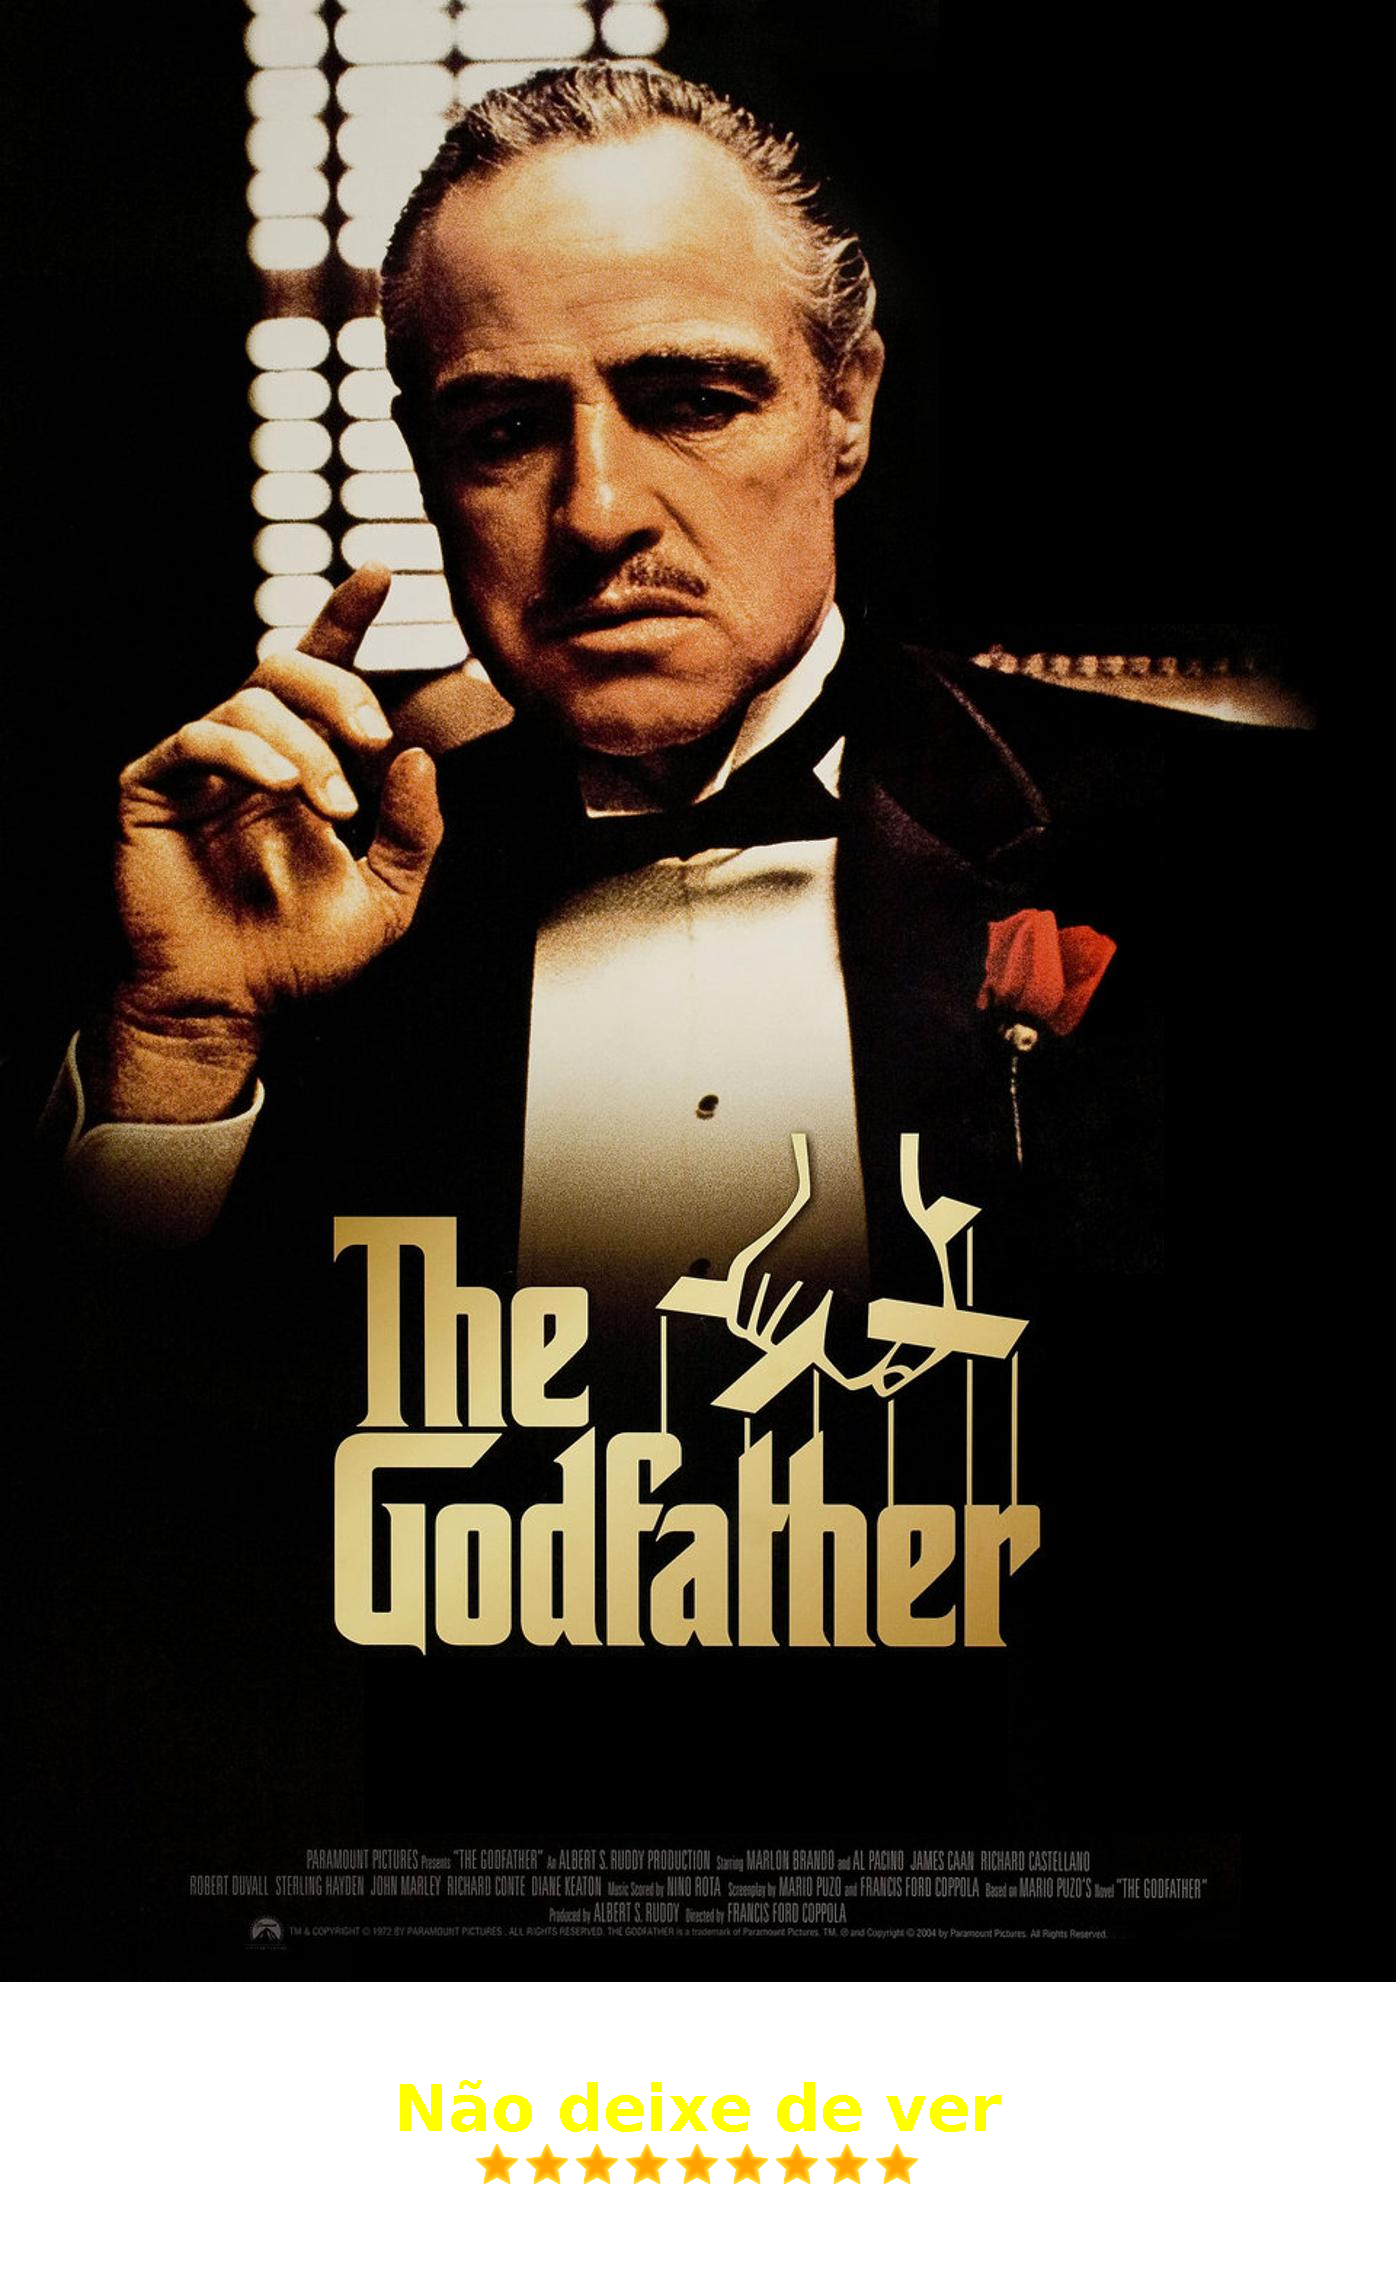
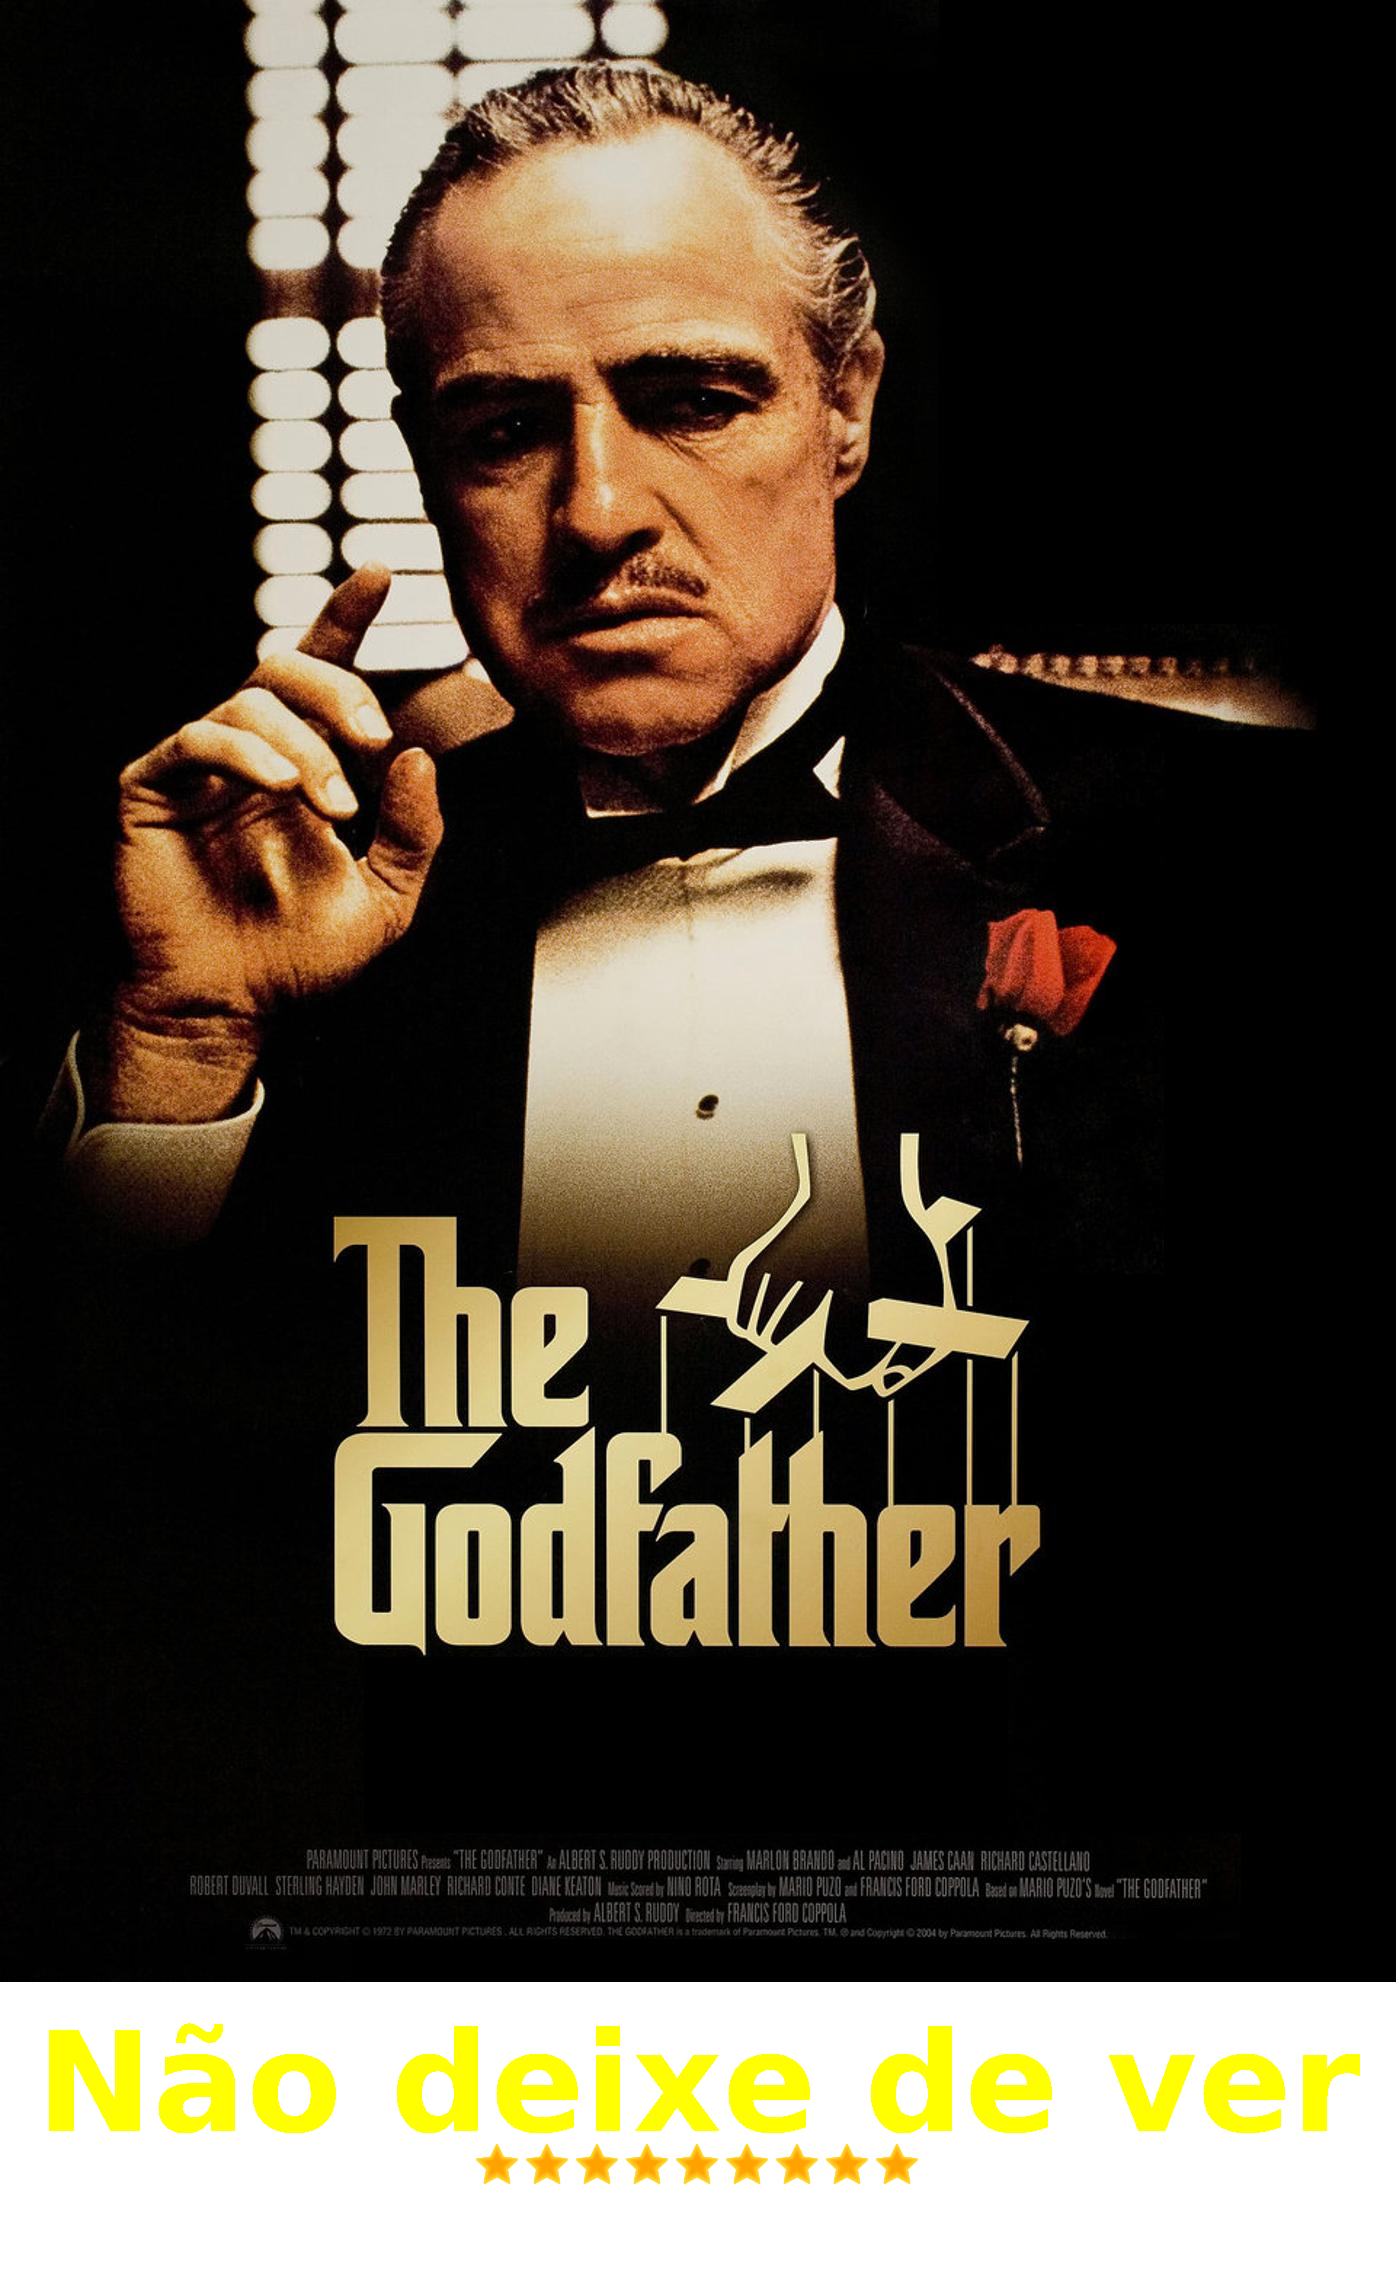
Making text proportional to the sticker

Changed region(s): [[0.2772, 0.8723, 0.7701, 0.9346], [0.0308, 0.8723, 0.2464, 0.9346], [0.8009, 0.9035, 0.9857, 0.9346]]

diff --git a/src/factory/StickerGenerator.java b/src/factory/StickerGenerator.java
@@ -23,7 +23,6 @@ public class StickerGenerator {
 
 	public static void producer (URL imageUrl, String title, Double value) {
 
-		var font = new Font(Font.SANS_SERIF, Font.BOLD, 64);
 		String evaluation;
 		
 		try {
@@ -33,6 +32,7 @@ public class StickerGenerator {
 			BufferedImage sticker = new BufferedImage(poster.getWidth(), poster.getHeight() + fifteenPerCentOfPosterHeight, BufferedImage.TRANSLUCENT);
 			Graphics2D graphics = sticker.createGraphics();
 			
+			var font = new Font(Font.SANS_SERIF, Font.BOLD, (poster.getWidth() * 10/100));
 			graphics.drawImage(poster, 0, 0, null);		
 			graphics.setFont(font);
 			graphics.setColor(Color.YELLOW);
@@ -49,9 +49,10 @@ public class StickerGenerator {
 			
 			int centerOfSticker = sticker.getWidth() / 2;
 			int centerOfText = (graphics.getFontMetrics().stringWidth(evaluation) / 2);
+			var stars = rating.getStars();
 			
 			graphics.drawString(evaluation, centerOfSticker - centerOfText, sticker.getHeight() - (fifteenPerCentOfPosterHeight/2));
-			graphics.drawImage(rating.getStars(), (sticker.getWidth() / 2) - (rating.getStars().getWidth() / 2), sticker.getHeight() - (fifteenPerCentOfPosterHeight/2) + 10, null);
+			graphics.drawImage(stars, centerOfSticker - (stars.getWidth() / 2), sticker.getHeight() - (fifteenPerCentOfPosterHeight/2) + 10, null);
 			
 			File path = new File(Path.of("").toAbsolutePath().toString() + "/output");
 			
